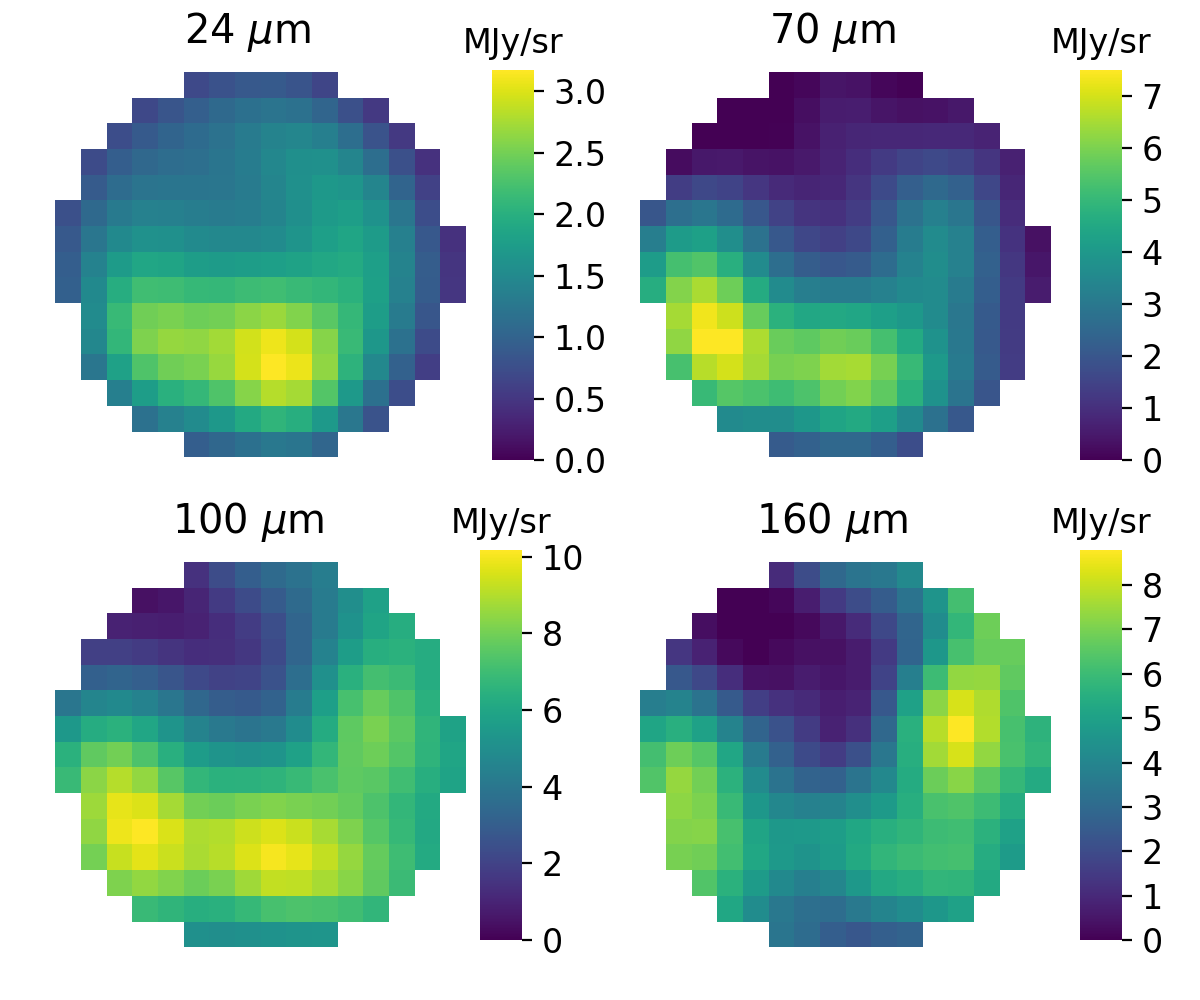
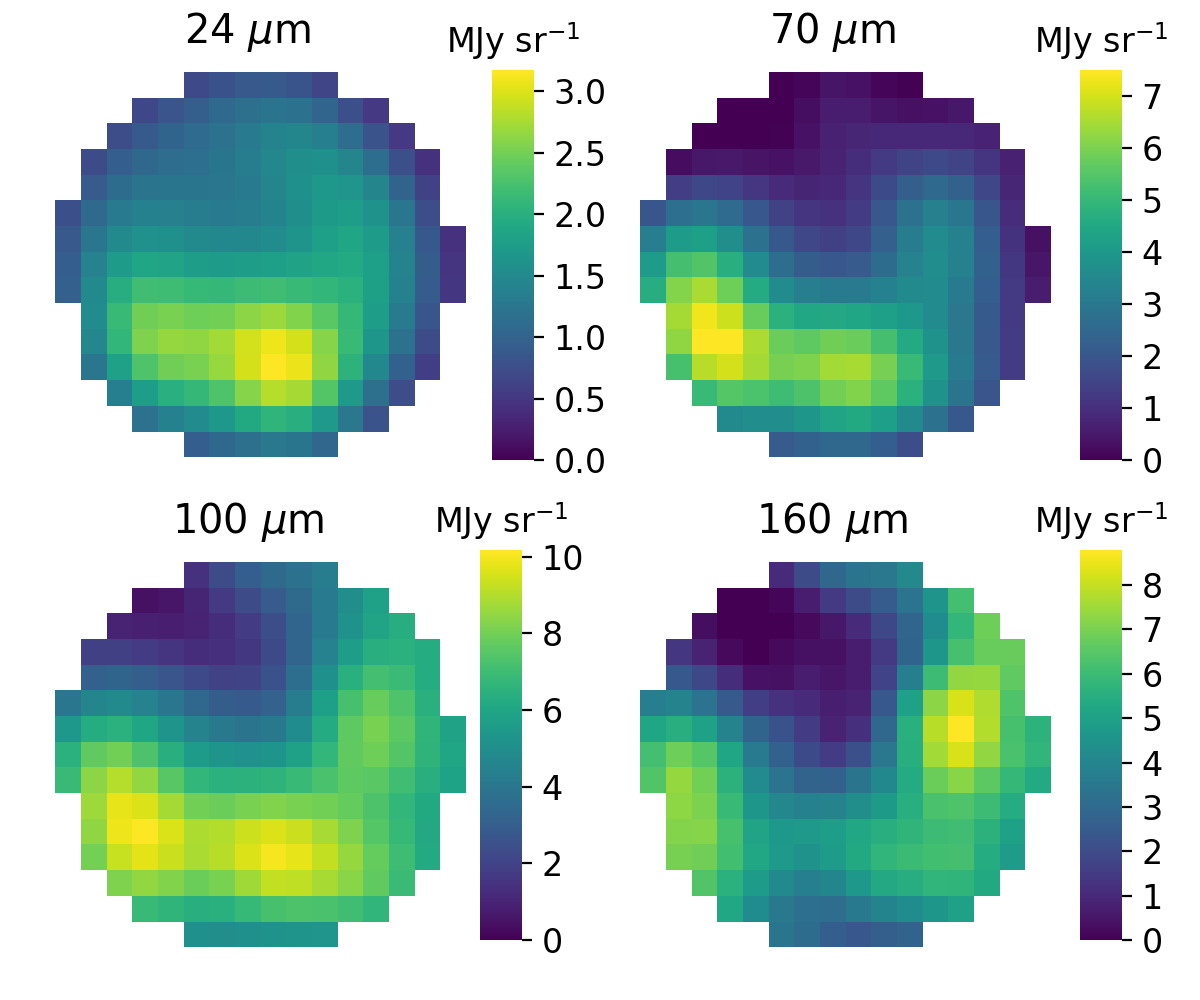
Update Background Removal Plot

diff --git a/Plotting/PixelByPixelSED.py b/Plotting/PixelByPixelSED.py
@@ -20,7 +20,7 @@ import Eqs
 ## Switches ##
 ##############
 
-save = False
+save = True
 show = True
 sigma_fit = 0
 
@@ -66,38 +66,42 @@ ix = plt.subplot2grid((2,2),(1,1))
 # Initialize 160 um image. 
 ex = plt.subplot2grid((2,2),(1,0),rowspan=1)
 
-plots = [cx,dx,ix]
-#colors = ["red","aqua","yellow"]
+plots = [dx,cx,ix]
+n_label = ["1","2","3"]
+text_position = [133.6,120,123.5,117,128.6,115]
+
 colors = ["#0900ff","#000000","fuchsia"]
 cmap = plt.get_cmap('viridis')
 
 # SNR Image
 ex.imshow(img,vmin=np.nanmin(img),vmax=np.nanmax(img))
+
 ex.set_xlim(xdim)
 ex.set_ylim(ydim)
 ex.axis("off")
 ex.scatter(Px,Py,s=80, marker='s',facecolors='none',edgecolors=colors,linewidths=1.5)
 
+counter = 0
 for i in range(3):
 	ObsvSed = [data[0][Py[i],Px[i]],data[1][Py[i],Px[i]],data[2][Py[i],Px[i]],data[3][Py[i],Px[i]]]
 	ObsvErr = Eqs.error(ObsvSed)
 	plots[i].plot(lam,Pix_Warm_SED[Py[i],Px[i]]+Pix_Cold_SED[Py[i],Px[i]],label="Total SED",color="#424186")
 	plots[i].plot(lam,Pix_Warm_SED[Py[i],Px[i]],label="Warm SED",color="#84D44B",ls='dashed')
 	plots[i].plot(lam,Pix_Cold_SED[Py[i],Px[i]],label="Cold SED",color="#23A883")		
-
+	plots[i].text(161,1,n_label[i],color=colors[i])
 	plots[i].errorbar(wv,ObsvSed,yerr=ObsvErr,marker='o',linestyle='none',c='black')
 	plots[i].grid(color='white',linestyle='-')
 	plots[i].set_facecolor("#EAEAF2")
+	ex.text(text_position[counter],text_position[counter+1],n_label[i],color=colors[i])
 
 	spines = ["bottom","top","right","left"]
 	for spine in spines:
 		plots[i].spines[spine].set_color(colors[i])
 		plots[i].spines[spine].set_linewidth(1.5)
 
-
-
+	counter += 2
 plots[0].legend()	
-plots[1].set_ylabel("Spectral Intensity (MJy sr$^{-1}$)")
+plots[0].set_ylabel("Spectral Intensity (MJy sr$^{-1}$)")
 plots[2].set_xlabel("Wavelength ($\mu m$)")
 
 plt.subplots_adjust(top=.99, bottom=0.09, left=0.09, right=.99, hspace=0.2, wspace=0.12)

diff --git a/Plotting/BackgroundRemoval.py b/Plotting/BackgroundRemoval.py
@@ -1,0 +1,32 @@
+# -*- Copyright (c) 2019, Bethany Ann Ludwig, All rights reserved. -*-
+"""
+NAME:
+	
+PURPOSE:
+	
+"""
+from astropy.io import fits
+import numpy as np
+import matplotlib.pyplot as plt 
+
+
+def get_data(filename):
+	return fits.open(filename)[0].data
+def get_header(filename):
+	return fits.open(filename)[0].header
+
+################
+# Import Files #
+################
+
+# Originals 
+
+original_files = ["../Original_Files/Infrared/n76crop_smcsage_24_desaturated.fits",
+					"../Original_Files/Infrared/e0102_pacs70_new.fits",
+						"../Original_Files/Infrared/e0102_pacs100_new.fits",
+							"../Original_Files/Infrared/e0102_pacs160_new.fits"]
+original_data = [get_data(x) for x in original_files ]
+# Background 
+# Diffusion stopped at 1375th step for 24 microns and at the 3620th step for 70 microns
+
+# SNR  

diff --git a/Plotting/E0102_RC.py b/Plotting/E0102_RC.py
@@ -78,7 +78,7 @@ ax_cbar = f.add_axes([p0[0], 0.1, p1[2]-p0[0], 0.07])
 cbar = plt.colorbar(cax, cax=ax_cbar, orientation='horizontal')
 cbar.outline.set_visible(False)
 cbar.ax.tick_params(labelsize=12) 
-cbar.ax.set_title("MJy/sr")
+cbar.ax.set_title(r"MJy sr$^{-1}$")
 plt.subplots_adjust(wspace=-.15,hspace=-.1,top=1,bottom=.120,right=1,left=0)
 
 if save:
@@ -111,7 +111,7 @@ for i in range(2):
 		cb = plt.colorbar(im,cax=ax_cb)
 		cb.ax.tick_params(labelsize=12) 
 		cb.outline.set_visible(False)
-		cb.ax.set_title("MJy/sr")
+		cb.ax.set_title(r"MJy sr$^{-1}$")
 		count += 1
 # Adjust Plot
 plt.subplots_adjust(wspace=-0.05,hspace=0,top=.98,bottom=0,right=.95,left=-0.05)

diff --git a/README.md b/README.md
@@ -32,7 +32,7 @@ For the 24 and 70 micron images the resolution is good enough that we employ a n
   
 ![equation](https://latex.codecogs.com/gif.latex?\frac{dx(i,j,t)}{dt}-\alpha\nabla^2x(i,j,t)=0)   
   
-To determine when the diffusion process should end, we look at the difference in sum of the magnitude of the pixel intensities in the time step and the time step that comes immediately after it. For 24 microns this is the 1375th step. For 70 microns, this is the 3620th step.  
+To determine when the diffusion process should end, we compare the difference between the sum of the magnitude of the pixel intensities in each time step with the time step that comes immediately after it. When homogenized, there should be no difference between these two time steps so we look for where this subtraction produces 0 within a tolerance of the sky noise error. For 24 microns this is the 1375th step. For 70 microns, this is the 3620th step.  
   
 Note that the fits files and movies generated by the code in Background_Removal/Diffusion is not included in this repo to save space. If running from scratch new folders with the correct names will need to be created as they are currently being ignored (folder names can be found in the .gitignore file). Diffusion.py would need to be run before any of the other scripts and does take a while (~30min) to run. This script creates the final modeled background image where the other files are used for visualizing and understanding the results.
 ### Bootstrap
@@ -65,7 +65,6 @@ More information about this equation including the derivation and units can be f
 
 To determine the error we consider during our fit we take a calibration error of 10% across instruments and add it in quadrature to the sky noise that we determined in our sky removal section.
 
-<<<<<<< Updated upstream
 ### Integrated SED
 Integrated_SED takes the mean value of the pixel intensities in the subtracted remnant at 24, 70, 100, and 160 microns and fits an SED to those values. The result is a cold dust mass of 0.1 Solar Mass, a warm dust component of 3.98e-05 Solar Mass, and a temperature of 35 K. For convenience, the results and the chi squared confidence intervals of the fit are tabled below.  
 
